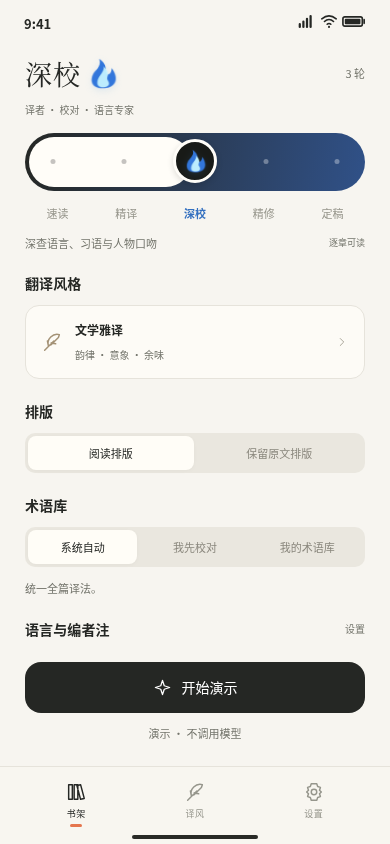
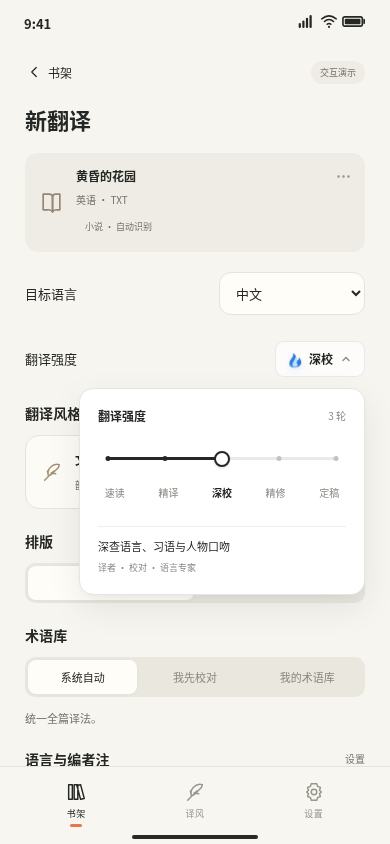
feat(ios): redesign translation strength as compact desktop-inspired popover

diff --git a/ios/preview/index.html b/ios/preview/index.html
@@ -26,11 +26,38 @@
 @media(max-width:360px){.page{padding-left:19px;padding-right:19px}.home-title{font-size:29px}.book-card{gap:14px;padding:18px 15px}.cover{width:84px;height:130px}.book-details .serif{font-size:19px}.quality-grid{gap:6px}.role{padding:5px 6px}.preference-row select{width:125px}}
 @media(prefers-reduced-motion:reduce){*,*:before,*:after{animation:none!important;transition:none!important;scroll-behavior:auto!important}}
 
-.stage{grid-template-columns:420px;justify-content:center;gap:0;max-width:none;padding:32px}.intro,.side-note{display:none}.native-label{letter-spacing:1px}.screen-title{font-family:var(--sans);font-size:22px;font-weight:550;letter-spacing:0;line-height:1.4;margin:12px 0 18px}.topbar{margin-bottom:24px}.config-section{margin-top:22px}.document-summary{margin:0 0 20px;padding:14px}.document-summary b,.book-details .serif,.doc-info b,.reader-title{overflow-wrap:anywhere}.target-row{display:flex;align-items:center;justify-content:space-between;gap:20px;font-size:13px}.target-row select{width:146px;padding:10px 12px;background:#fffdf8}.strength-header{display:flex;align-items:center;justify-content:space-between;gap:12px;margin-bottom:12px}.strength-header b{font-size:15px;font-weight:550}.strength-header span{font-size:10px;color:var(--muted)}.strength-slider{height:58px;cursor:ew-resize;touch-action:none;user-select:none;-webkit-user-select:none;border-radius:999px}.strength-slider:focus-visible{outline:3px solid var(--accent);outline-offset:4px}.strength-track{height:58px;width:100%;background:#181a17;border:1px solid #181a17;border-radius:999px;position:relative}.strength-fill{position:absolute;left:4px;top:4px;bottom:4px;background:#fffdf8;border-radius:999px;transition:width .18s ease}.strength-dot{position:absolute;top:24px;width:8px;height:8px;border-radius:50%;background:#fffdf8;transform:translateX(-50%)}.strength-dot.filled{background:#22241f}.strength-thumb{position:absolute;top:6px;width:44px;height:44px;border:3px solid #fffdf8;background:#181a17;border-radius:50%;transform:translateX(-50%);transition:left .18s ease}.strength-slider.dragging .strength-thumb,.strength-slider.dragging .strength-fill{transition:none}.sample-shortcut{display:flex;align-items:center;justify-content:center;gap:5px;width:100%;font-size:11px;color:#858070;padding:8px}.sample-shortcut svg{height:13px;width:13px}.book-card{margin-top:13px;min-height:178px}.cover-original{width:96px;height:137px;object-fit:contain;border-radius:5px;flex-shrink:0}.mini-cover{width:35px;height:48px;object-fit:contain;border-radius:3px;flex-shrink:0}.doc-icon .mini-cover{width:45px;height:56px}.reader-page>.reader-title+.cover-original{width:100%;height:240px;margin:12px 0 20px}.process-document{font-family:var(--serif);font-size:22px;font-weight:500;letter-spacing:.5px;margin:26px 0 10px}.process-art{margin:35px auto 27px}.process-page .process-message{font-size:15px;letter-spacing:0;margin-top:24px}.process-detail{max-width:250px;font-size:10px}.style-card p.style-description{display:none}.style-card p.style-example{font-size:11px;line-height:1.65;margin:9px 0 0;display:-webkit-box;-webkit-line-clamp:2;-webkit-box-orient:vertical;overflow:hidden}.style-card{padding:15px}.style-letter{font-size:25px}.sheet h2{font-family:var(--sans);font-size:20px}.sheet-notice{font-size:10px!important}.reader-title{font-size:28px}.reader-meta{margin-top:22px}.reader-author{font-size:10px}.reader-body p.empty-translation{padding:12px;font-size:11px}.complete-summary{margin:24px 0}.completed-mark{margin:38px auto 20px}.payment-option h3{font-family:var(--sans);font-size:18px}.file-drop{padding:25px 15px}.file-drop p{font-size:11px}.format-row{display:flex;gap:6px;flex-wrap:wrap;justify-content:center;margin-top:12px}.format-chip{font-size:9px;color:#8a826f;padding:4px 7px;border:1px solid #dcd5c4;border-radius:5px}
+.stage{grid-template-columns:420px;justify-content:center;gap:0;max-width:none;padding:32px}.intro,.side-note{display:none}.native-label{letter-spacing:1px}.screen-title{font-family:var(--sans);font-size:22px;font-weight:550;letter-spacing:0;line-height:1.4;margin:12px 0 18px}.topbar{margin-bottom:24px}.config-section{margin-top:22px}.document-summary{margin:0 0 20px;padding:14px}.document-summary b,.book-details .serif,.doc-info b,.reader-title{overflow-wrap:anywhere}.target-row{display:flex;align-items:center;justify-content:space-between;gap:20px;font-size:13px}.target-row select{width:146px;padding:10px 12px;background:#fffdf8}.sample-shortcut{display:flex;align-items:center;justify-content:center;gap:5px;width:100%;font-size:11px;color:#858070;padding:8px}.sample-shortcut svg{height:13px;width:13px}.book-card{margin-top:13px;min-height:178px}.cover-original{width:96px;height:137px;object-fit:contain;border-radius:5px;flex-shrink:0}.mini-cover{width:35px;height:48px;object-fit:contain;border-radius:3px;flex-shrink:0}.doc-icon .mini-cover{width:45px;height:56px}.reader-page>.reader-title+.cover-original{width:100%;height:240px;margin:12px 0 20px}.process-document{font-family:var(--serif);font-size:22px;font-weight:500;letter-spacing:.5px;margin:26px 0 10px}.process-art{margin:35px auto 27px}.process-page .process-message{font-size:15px;letter-spacing:0;margin-top:24px}.process-detail{max-width:250px;font-size:10px}.style-card p.style-description{display:none}.style-card p.style-example{font-size:11px;line-height:1.65;margin:9px 0 0;display:-webkit-box;-webkit-line-clamp:2;-webkit-box-orient:vertical;overflow:hidden}.style-card{padding:15px}.style-letter{font-size:25px}.sheet h2{font-family:var(--sans);font-size:20px}.sheet-notice{font-size:10px!important}.reader-title{font-size:28px}.reader-meta{margin-top:22px}.reader-author{font-size:10px}.reader-body p.empty-translation{padding:12px;font-size:11px}.complete-summary{margin:24px 0}.completed-mark{margin:38px auto 20px}.payment-option h3{font-family:var(--sans);font-size:18px}.file-drop{padding:25px 15px}.file-drop p{font-size:11px}.format-row{display:flex;gap:6px;flex-wrap:wrap;justify-content:center;margin-top:12px}.format-chip{font-size:9px;color:#8a826f;padding:4px 7px;border:1px solid #dcd5c4;border-radius:5px}
 @media(max-width:700px){.stage{display:block;padding:0}.page{padding-top:14px}.phone-wrap{max-width:460px}.reader-page .cover-original{width:100%;height:240px;object-fit:contain;margin:14px 0 20px}}
 
 
-.strength-eyebrow{font-size:11px;color:var(--muted);margin-bottom:9px}.strength-heading{display:flex;align-items:center;justify-content:space-between;margin-bottom:9px}.strength-name{display:flex;align-items:center;gap:8px;min-height:34px}.strength-name b{font-family:var(--serif);font-size:27px;font-weight:500;letter-spacing:1px}.strength-heading>span{font-size:11px;color:var(--muted);font-variant-numeric:tabular-nums}.strength-roles{font-size:10px;color:var(--muted);margin-bottom:16px;white-space:nowrap}.strength-labels{display:flex;justify-content:space-between;margin:0 -2px}.strength-labels button{flex:1;min-height:44px;font-size:11px;color:#96958b;transition:color .2s}.strength-labels button.selected{color:var(--ink);font-weight:650}.strength-description{display:flex;align-items:center;justify-content:space-between;gap:6px;color:var(--muted);font-size:11px;margin-top:0}.strength-description small{font-size:9px;white-space:nowrap}.strength-track{border:0;transition:background .3s;background:linear-gradient(100deg,#252724,#292d2a)}.strength-dot{width:5px;height:5px;top:26px;background:#ffffff55}.strength-dot.filled{background:#25272444}.strength-thumb{display:grid;place-items:center;box-shadow:0 2px 6px #0002;transition:left .24s cubic-bezier(.2,.85,.3,1.12),box-shadow .3s}.strength-thumb #thumb-flame{display:grid;place-items:center;color:#fffcf3}.strength-thumb #thumb-flame>svg{width:17px;height:17px}.strength-control[data-heat="deep"] .strength-track{background:linear-gradient(100deg,#252724,#305188)}.strength-control[data-heat="deep"] .strength-labels .selected{color:#3675c8}.strength-control[data-heat="publication"] .strength-track,.strength-control[data-heat="definitive"] .strength-track{background:linear-gradient(100deg,#252724,#8f4a30)}.strength-control[data-heat="publication"] .strength-labels .selected,.strength-control[data-heat="definitive"] .strength-labels .selected{color:#c56843}.strength-control[data-heat="definitive"] .strength-thumb{box-shadow:0 0 14px #ea78412b}.quality-flame{--outer:#e65c29;--core:#ffd881;--glow:#e9763326;display:inline-block;position:relative;width:28px;height:33px;vertical-align:middle}.quality-flame.blue{--outer:#3276db;--core:#c4f3ff;--glow:#479add25}.quality-flame>svg{width:100%;height:100%;fill:var(--outer);stroke:none;overflow:visible;filter:drop-shadow(0 2px 4px var(--glow));transform-origin:50% 95%;animation:flameSway 1.5s ease-in-out infinite alternate}.quality-flame .flame-core{fill:var(--core);transform-origin:50% 95%;animation:flameCore 1.1s ease-in-out infinite alternate}.quality-flame.inferno>svg{animation-duration:.95s;filter:drop-shadow(0 1px 5px #e9763344)}.quality-flame i{display:none;position:absolute;left:30%;top:48%;width:2px;height:2px;background:var(--core);border-radius:50%;animation:emberRise 1.8s linear infinite}.quality-flame.inferno i{display:block}.quality-flame i:nth-of-type(2){left:68%;animation-delay:-.6s}.quality-flame i:nth-of-type(3){left:45%;animation-delay:-1.2s}.strength-thumb .quality-flame{width:21px;height:26px}@keyframes flameSway{from{transform:scaleX(.93) scaleY(.97) rotate(-3deg)}to{transform:scaleX(1.05) scaleY(1.05) rotate(3deg)}}@keyframes flameCore{from{transform:scale(.88,.92);opacity:.86}to{transform:scale(1.03,1.04);opacity:1}}@keyframes emberRise{from{transform:translate(0,0);opacity:0}15%{opacity:.65}to{transform:translate(3px,-18px);opacity:0}}@media(prefers-reduced-motion:reduce){.quality-flame i{display:none!important}}html.motion-paused .quality-flame>svg,html.motion-paused .quality-flame .flame-core,html.motion-paused .quality-flame i{animation-play-state:paused}
+/* Compact effort popover, inspired by desktop model controls. */
+.strength-control{position:relative;display:flex;align-items:center;justify-content:space-between;min-height:44px;font-size:13px}
+.strength-trigger{display:flex;align-items:center;gap:7px;min-height:44px;padding:4px 0;position:relative}
+.strength-trigger-inner{display:flex;align-items:center;gap:7px;height:36px;padding:0 12px;background:#ffffffb3;border:1px solid #25272417;border-radius:9px;font-size:12px;font-weight:550}
+.strength-trigger .quality-flame{width:14px;height:18px}#quality-flame:empty{display:none}
+.strength-caret{width:12px;height:12px;stroke-width:1.8;color:#888a84;transition:transform .16s}
+.strength-trigger[aria-expanded="true"] .strength-caret{transform:rotate(180deg)}
+.strength-panel{position:absolute;right:0;top:calc(100% + 7px);width:min(286px,100%);padding:18px;background:#fff;border:1px solid #e5e5e3;border-radius:14px;box-shadow:0 12px 35px #00000014,0 2px 6px #00000008;z-index:30;animation:strengthEnter .16s ease-out;transform-origin:top right}
+.strength-panel[hidden]{display:none}.strength-panel.above{top:auto;bottom:calc(100% + 7px);transform-origin:bottom right}
+.strength-panel-header{display:flex;align-items:center;justify-content:space-between;font-size:12px;margin-bottom:13px;font-weight:600}
+.strength-panel-header span{font-size:10px;color:#888a84;font-weight:400;font-variant-numeric:tabular-nums}
+.strength-slider{height:44px;position:relative;cursor:ew-resize;touch-action:none;user-select:none;-webkit-user-select:none;border-radius:6px}
+.strength-slider:focus-visible{outline:2px solid #767875;outline-offset:3px}
+.strength-track{position:absolute;inset:0 10px}
+.strength-track:before{content:"";position:absolute;top:20.5px;height:3px;width:100%;background:#e9e9e7;border-radius:2px}
+.strength-fill{position:absolute;left:0;top:20.5px;height:3px;background:#252724;border-radius:2px;transition:width .2s cubic-bezier(.2,.85,.3,1)}
+.strength-dot{position:absolute;top:19.5px;transform:translateX(-50%);width:5px;height:5px;border-radius:50%;background:#c2c2bf}
+.strength-dot.filled{background:#252724}
+.strength-thumb{position:absolute;top:14px;transform:translateX(-50%);width:16px;height:16px;border:2px solid #252724;background:#fff;border-radius:50%;box-shadow:0 1px 3px #0002;transition:left .2s cubic-bezier(.2,.85,.3,1.1)}
+.strength-slider.dragging .strength-thumb,.strength-slider.dragging .strength-fill{transition:none}
+.strength-labels{display:flex;gap:0;margin:-10px -10px 0}
+.strength-labels button{flex:1;min-height:44px;font-size:10px;color:#888a84;padding:0;position:relative}
+.strength-labels button.selected{font-weight:650;color:#252724}
+.strength-panel-footer{border-top:1px solid #eeeeec;margin-top:11px;padding-top:11px}
+.strength-panel-detail{font-size:11px;line-height:1.6}
+.strength-roles{font-size:9px;color:#888a84;margin-top:6px;line-height:1.6}
+@keyframes strengthEnter{from{opacity:0}to{opacity:1}}
+.quality-flame{--outer:#e65c29;--core:#ffd881;--glow:#e9763326;display:inline-block;position:relative;width:28px;height:33px;vertical-align:middle}.quality-flame.blue{--outer:#3276db;--core:#c4f3ff;--glow:#479add25}.quality-flame>svg{width:100%;height:100%;fill:var(--outer);stroke:none;overflow:visible;filter:drop-shadow(0 2px 4px var(--glow));transform-origin:50% 95%;animation:flameSway 1.5s ease-in-out infinite alternate}.quality-flame .flame-core{fill:var(--core);transform-origin:50% 95%;animation:flameCore 1.1s ease-in-out infinite alternate}.quality-flame.inferno>svg{animation-duration:.95s;filter:drop-shadow(0 1px 5px #e9763344)}.quality-flame i{display:none;position:absolute;left:30%;top:48%;width:2px;height:2px;background:var(--core);border-radius:50%;animation:emberRise 1.8s linear infinite}.quality-flame.inferno i{display:block}.quality-flame i:nth-of-type(2){left:68%;animation-delay:-.6s}.quality-flame i:nth-of-type(3){left:45%;animation-delay:-1.2s}@keyframes flameSway{from{transform:scaleX(.93) scaleY(.97) rotate(-3deg)}to{transform:scaleX(1.05) scaleY(1.05) rotate(3deg)}}@keyframes flameCore{from{transform:scale(.88,.92);opacity:.86}to{transform:scale(1.03,1.04);opacity:1}}@keyframes emberRise{from{transform:translate(0,0);opacity:0}15%{opacity:.65}to{transform:translate(3px,-18px);opacity:0}}@media(prefers-reduced-motion:reduce){.quality-flame i{display:none!important}}html.motion-paused .quality-flame>svg,html.motion-paused .quality-flame .flame-core,html.motion-paused .quality-flame i{animation-play-state:paused}
 </style>
 </head>
 <body>
@@ -490,8 +517,10 @@ function render(){const screens={home:homeHTML,configure:configHTML,styles:style
 function homeHTML(){const featured=docs.findLast(d=>d.coverDataURL)||docs[0],recent=docs.filter(d=>d.id!==featured.id);return '<header class="topbar"><div class="app-brand">译间<small>BOOKLLM</small></div><button class="icon-button" data-action="import" aria-label="导入文稿">'+icon('plus')+'</button></header><div class="row spread"><h1 class="section-title">继续阅读</h1><span class="small muted" style="font-size:10px">'+docs.length+' 份文稿</span></div><div class="book-card">'+(docCover(featured)||'<div class="cover" aria-hidden="true"><span class="cover-label">BOOKLLM</span><div class="cover-title">黄昏的<br>花园</div><div class="cover-rule"></div><span class="cover-en">THE GARDEN<br>AT DUSK</span></div>')+'<div class="book-details"><span class="pill '+(featured.sample?'green':'gray')+'">'+(featured.sample?'示例译本':'已导入')+'</span><h2 class="serif">'+esc(featured.title)+'</h2><p class="small muted" style="font-size:10px;margin:0">'+detectSourceLanguage(featured.source)+' · '+featured.format+'</p><button class="read-button" data-read="'+esc(featured.id)+'">继续阅读 '+icon('arrow')+'</button></div></div><div class="row spread section-row"><h2 class="section-title">书架</h2></div>'+recent.map(d=>'<button class="document-row" data-read="'+esc(d.id)+'"><span class="doc-icon">'+(docCover(d,true)||icon('doc'))+'</span><span class="doc-info"><b>'+esc(d.title)+'</b><small>'+esc(d.format)+' · '+detectSourceLanguage(d.source)+'</small></span><span class="pill '+(d.sample?'green':'gray')+'">'+(d.sample?'示例':'原文')+'</span></button>').join('')+'<button class="button new-translation" data-action="import">'+icon('plus')+'导入文稿</button><button class="sample-shortcut" data-action="sample-config">体验示例翻译 '+icon('arrow')+'</button><div class="deepseek-foot">DeepSeek · 交互演示</div>'}
 
 function flameHTML(q){if(qualityKeys.indexOf(q)<2)return '';return '<span class="quality-flame '+(q==='deep'?'blue':q==='definitive'?'inferno':'amber')+'" aria-hidden="true"><svg viewBox="0 0 30 36"><path class="flame-outer" d="M15 34C0 34 1 23 5 17C9 13 14 8 11 2C22 9 16 15 20 19C24 19 25 15 25 12C35 26 27 34 15 34Z"/><path class="flame-core" d="M15 33C6 33 8 25 12 20C16 15 17 12 16 10C26 20 17 21 21 26C24 31 20 33 15 33Z"/></svg><i></i><i></i><i></i></span>'}
-function qualityHTML(){const idx=qualityKeys.indexOf(state.quality),ratio=idx/4,q=qualityInfo[state.quality];const pos=i=>'calc('+(i/4*100)+'% + '+(28-56*i/4)+'px)';return '<div class="strength-control" data-heat="'+state.quality+'"><div class="strength-eyebrow">翻译强度</div><div class="strength-heading"><div class="strength-name"><b id="quality-heading">'+q.name+'</b><span id="quality-flame">'+flameHTML(state.quality)+'</span></div><span id="quality-rounds">'+stages().length+' 轮</span></div><div id="quality-roles" class="strength-roles">'+stages().map(s=>roleNames[s]).join(' · ')+'</div><div id="quality-slider" class="strength-slider" role="slider" tabindex="0" aria-label="翻译强度" aria-valuemin="0" aria-valuemax="4" aria-valuenow="'+idx+'" aria-valuetext="'+q.name+'，'+stages().map(s=>roleNames[s]).join('、')+'"><div class="strength-track"><span class="strength-fill" style="width:calc('+ratio*100+'% + '+(20-56*ratio)+'px)"></span>'+qualityKeys.map((_,i)=>'<i class="strength-dot '+(i<idx?'filled':'')+'" style="left:'+pos(i)+'"></i>').join('')+'<span class="strength-thumb" style="left:'+pos(idx)+'"><span id="thumb-flame">'+(flameHTML(state.quality)||icon(state.quality==='fast'?'spark':'feather'))+'</span></span></div></div><div class="strength-labels">'+qualityKeys.map((key,i)=>'<button data-quality-stop="'+i+'" class="'+(idx===i?'selected':'')+'" aria-pressed="'+(idx===i)+'">'+qualityInfo[key].name+'</button>').join('')+'</div><div class="strength-description"><span id="quality-detail">'+q.description+'</span><small id="quality-reading">'+(idx?'逐章可读':'')+'</small></div></div>'}
-function updateQualitySlider(index,visualRatio=null){index=Math.max(0,Math.min(4,index));const previous=state.quality;state.quality=qualityKeys[index];state.extraLanguage=false;const slider=$('#quality-slider');if(!slider)return;const ratio=visualRatio??index/4;slider.setAttribute('aria-valuenow',String(index));slider.setAttribute('aria-valuetext',qualityInfo[state.quality].name+'，'+stages().map(s=>roleNames[s]).join('、'));$('.strength-fill',slider).style.width='calc('+ratio*100+'% + '+(20-56*ratio)+'px)';$('.strength-thumb',slider).style.left='calc('+ratio*100+'% + '+(28-56*ratio)+'px)';slider.querySelectorAll('.strength-dot').forEach((dot,i)=>dot.classList.toggle('filled',i<index));$('#quality-heading').textContent=qualityInfo[state.quality].name;$('#quality-roles').textContent=stages().map(s=>roleNames[s]).join(' · ');$('#quality-rounds').textContent=stages().length+' 轮';$('#quality-detail').textContent=qualityInfo[state.quality].description;$('#quality-reading').textContent=index?'逐章可读':'';if(previous!==state.quality){$('#quality-flame').innerHTML=flameHTML(state.quality);$('#thumb-flame').innerHTML=flameHTML(state.quality)||icon(state.quality==='fast'?'spark':'feather');}$('.strength-control').dataset.heat=state.quality;document.querySelectorAll('[data-quality-stop]').forEach((b,i)=>{b.classList.toggle('selected',i===index);b.setAttribute('aria-pressed',String(i===index));});}
+function qualityHTML(){const idx=qualityKeys.indexOf(state.quality),q=qualityInfo[state.quality];return '<div class="strength-control"><span>翻译强度</span><button class="strength-trigger" id="strength-trigger" aria-expanded="false" aria-controls="strength-panel" aria-label="翻译强度，'+q.name+'"><span class="strength-trigger-inner"><span id="quality-flame">'+flameHTML(state.quality)+'</span><span id="quality-heading">'+q.name+'</span><svg class="strength-caret" viewBox="0 0 16 16" aria-hidden="true"><path d="m4 6 4 4 4-4"/></svg></span></button><div class="strength-panel" id="strength-panel" hidden><div class="strength-panel-header">翻译强度<span id="quality-rounds">'+stages().length+' 轮</span></div><div id="quality-slider" class="strength-slider" role="slider" tabindex="0" aria-label="翻译强度" aria-valuemin="0" aria-valuemax="4" aria-valuenow="'+idx+'" aria-valuetext="'+q.name+'，'+stages().map(s=>roleNames[s]).join('、')+'"><div class="strength-track"><span class="strength-fill" style="width:'+idx/4*100+'%"></span>'+qualityKeys.map((_,i)=>'<i class="strength-dot '+(i<=idx?'filled':'')+'" style="left:'+i/4*100+'%"></i>').join('')+'<span class="strength-thumb" style="left:'+idx/4*100+'%"></span></div></div><div class="strength-labels">'+qualityKeys.map((key,i)=>'<button data-quality-stop="'+i+'" class="'+(idx===i?'selected':'')+'" aria-pressed="'+(idx===i)+'">'+qualityInfo[key].name+'</button>').join('')+'</div><div class="strength-panel-footer"><div id="quality-detail" class="strength-panel-detail">'+q.description+'</div><div id="quality-roles" class="strength-roles">'+stages().map(s=>roleNames[s]).join(' · ')+'</div></div></div></div>'}
+function updateQualitySlider(index,visualRatio=null){index=Math.max(0,Math.min(4,index));const previous=state.quality;state.quality=qualityKeys[index];state.extraLanguage=false;const slider=$('#quality-slider');if(!slider)return;const ratio=visualRatio??index/4;slider.setAttribute('aria-valuenow',String(index));slider.setAttribute('aria-valuetext',qualityInfo[state.quality].name+'，'+stages().map(s=>roleNames[s]).join('、'));$('.strength-fill',slider).style.width=ratio*100+'%';$('.strength-thumb',slider).style.left=ratio*100+'%';slider.querySelectorAll('.strength-dot').forEach((dot,i)=>dot.classList.toggle('filled',i<=index));$('#quality-heading').textContent=qualityInfo[state.quality].name;$('#strength-trigger').setAttribute('aria-label','翻译强度，'+qualityInfo[state.quality].name);$('#quality-roles').textContent=stages().map(s=>roleNames[s]).join(' · ');$('#quality-rounds').textContent=stages().length+' 轮';$('#quality-detail').textContent=qualityInfo[state.quality].description;if(previous!==state.quality)$('#quality-flame').innerHTML=flameHTML(state.quality);document.querySelectorAll('[data-quality-stop]').forEach((b,i)=>{b.classList.toggle('selected',i===index);b.setAttribute('aria-pressed',String(i===index));});}
+function setStrengthOpen(open,restoreFocus=false){const panel=$('#strength-panel'),trigger=$('#strength-trigger');if(!panel)return;panel.hidden=!open;trigger.setAttribute('aria-expanded',String(open));if(open){panel.classList.remove('above');const viewBox=$('#view').getBoundingClientRect();if(panel.getBoundingClientRect().bottom>viewBox.bottom-8)panel.classList.add('above');$('#quality-slider').focus({preventScroll:true});}else if(restoreFocus)trigger.focus({preventScroll:true});}
+
 function glossaryHTML(){let mode=state.glossaryMode;return '<div class="segmented" role="group" aria-label="术语库模式">'+[['automatic','系统自动'],['review','我先校对'],['custom','我的术语库']].map(([v,l])=>'<button data-glossary="'+v+'" class="'+(mode===v?'active':'')+'" aria-pressed="'+(mode===v)+'">'+l+'</button>').join('')+'</div><div class="glossary-box">'+(mode==='automatic'?'<p class="field-caption">统一全篇译法。</p>':'<div class="row spread glossary-head"><span class="small muted" style="font-size:10px">'+(mode==='review'?'确认译法':'固定译法')+'</span><button class="text-button" data-action="add-term" style="font-size:10px">+ 添加</button></div>'+state.terms.map((t,i)=>'<div class="term-row"><input aria-label="术语 '+(i+1)+' 原文" data-term="'+i+'" data-part="source" value="'+esc(t.source)+'" placeholder="原词"><span>→</span><input aria-label="术语 '+(i+1)+' 译文" data-term="'+i+'" data-part="target" value="'+esc(t.target)+'" placeholder="固定译法"><button class="remove-term" data-remove-term="'+i+'" aria-label="删除术语 '+(i+1)+'">×</button></div>').join('')+(state.terms.length?'':'<p class="field-caption">可添加术语。</p>')+(mode==='review'?'<button class="check-row" data-action="confirm-glossary" aria-pressed="'+state.reviewed+'"><span class="checkbox '+(state.reviewed?'checked':'')+'">'+(state.reviewed?icon('check'):'')+'</span><span>我已确认术语，按这些译法翻译</span></button>':'<p class="field-caption">本次演示中保留。</p>'))+'</div>'}
 function preferenceHTML(){return '<div class="preferences-panel"><div class="preference-row"><div class="title">其他外语<small>外语片段</small></div><select aria-label="外语处理方式" data-pref="foreign">'+[['bilingual','原文 + 译文'],['translate','一并翻译'],['preserve','保留原文']].map(([v,l])=>'<option value="'+v+'" '+(state.foreign===v?'selected':'')+'>'+l+'</option>').join('')+'</select></div><div class="preference-row"><div class="title">编者注<small>首次出现时解释</small></div><select aria-label="编者注类型" data-pref="notes">'+[['none','不添加'],['terms','词语解释'],['cultural','词语与文化背景']].map(([v,l])=>'<option value="'+v+'" '+(state.notes===v?'selected':'')+'>'+l+'</option>').join('')+'</select></div><div class="preference-row"><div class="title">注释保持克制<small>'+ (state.sparse?'每个分块最多 1 条必要说明':'每个分块最多 3 条必要说明') +'</small></div><button class="switch '+(state.sparse?'on':'')+'" data-toggle="sparse" role="switch" aria-checked="'+state.sparse+'" aria-label="注释保持克制"></button></div></div>'}
 function documentOptionsHTML(){return '<section class="config-section"><h2 class="section-title" style="margin-bottom:12px">排版</h2><div class="segmented" role="group" aria-label="排版模式">'+[['reading','阅读排版'],['preserve','保留原文排版']].map(([v,l])=>'<button data-layout="'+v+'" class="'+(state.layout===v?'active':'')+'" aria-pressed="'+(state.layout===v)+'">'+l+'</button>').join('')+'</div></section>'}
@@ -544,8 +573,10 @@ document.addEventListener('keydown',event=>{if(!state.modal)return;if(event.key=
 function introHTML(){const p=state.introPage;return '<div style="padding:24px 0 12px"><h2 class="serif" style="font-size:28px">'+['导入，开始读。','选一种翻译强度。','选一种使用方式。'][p]+'</h2><p class="small muted" style="font-size:14px;line-height:2">'+['EPUB、PDF、DOCX、TXT、Markdown 与图片。<br>扫描页本机 OCR，可先核对，保留已有封面。','速读 → 精译 → 深校 → 精修 → 定稿。<br>逐级加入校对、语言专家、主编与终审。<br>高强度逐章定稿，耗时与用量也会增加。',state.mode==='payg'?'购买点数，默认 DeepSeek，按实际用量结算。':'一次解锁自己的 API，服务商计费。'][p]+'</p>'+(p===2?modeHTML():'')+'<button class="button" data-action="intro-next">'+(p===2?'进入书架':'继续')+'</button></div>'}
 document.addEventListener('click',event=>{const el=event.target.closest('[data-mode],[data-action]');if(!el)return;if(el.dataset.mode){state.mode=el.dataset.mode;render();return}switch(el.dataset.action){case'intro':state.introPage=0;openModal('intro');break;case'intro-next':if(state.introPage<2){state.introPage++;renderModal()}else{closeModal();navigate('home')}break;case'work-lookup':openModal('work-lookup');break;case'work-open':if($('#work-id').value.trim().toUpperCase()==='GARDEN')openModal('work-detail');else toast('演示中可输入 GARDEN');break;case'work-buy':if(!state.demoPurchased){state.demoPoints-=10;state.demoPurchased=true}closeModal();state.selected='garden';state.readerMode='translated';navigate('reader');toast('示例已加入书架 · 再次打开不会重复扣点');break;case'publish':openModal('publish');break;case'publish-demo':if(!$('#work-rights').checked){toast('请先确认分享权利');break}const price=Number($('#work-price').value);if(!Number.isInteger(price)||price<1||price>100000){toast('请输入 1–100000 点');break}closeModal();toast('示例 ID：GARDEN · '+price+' 点 · 未上传');break;}});
 let sliderPointer=null;
-function sliderRatio(event,slider){const rect=slider.getBoundingClientRect();return Math.max(0,Math.min(1,(event.clientX-rect.left-28)/(rect.width-56)))}
-document.addEventListener('click',event=>{const b=event.target.closest('[data-quality-stop]');if(b)updateQualitySlider(Number(b.dataset.qualityStop));});
+function sliderRatio(event,slider){const rect=slider.getBoundingClientRect();return Math.max(0,Math.min(1,(event.clientX-rect.left-10)/(rect.width-20)))}
+document.addEventListener('click',event=>{const trigger=event.target.closest('#strength-trigger');if(trigger){setStrengthOpen(trigger.getAttribute('aria-expanded')!=='true');return;}const b=event.target.closest('[data-quality-stop]');if(b){updateQualitySlider(Number(b.dataset.qualityStop));return;}if(!event.target.closest('.strength-control'))setStrengthOpen(false);});
+document.addEventListener('keydown',event=>{if(event.key==='Escape'&&$('#strength-panel')&&!$('#strength-panel').hidden){event.preventDefault();setStrengthOpen(false,true);}});
+document.addEventListener('focusin',event=>{if(!event.target.closest('.strength-control'))setStrengthOpen(false);});
 document.addEventListener('pointerdown',event=>{const slider=event.target.closest('#quality-slider');if(!slider)return;event.preventDefault();slider.focus();sliderPointer=event.pointerId;slider.setPointerCapture(event.pointerId);slider.classList.add('dragging');const ratio=sliderRatio(event,slider);updateQualitySlider(Math.round(ratio*4));});
 document.addEventListener('pointermove',event=>{if(sliderPointer!==event.pointerId)return;const slider=$('#quality-slider');if(!slider)return;const ratio=sliderRatio(event,slider);updateQualitySlider(Math.round(ratio*4),ratio);});
 function endSlider(event){if(sliderPointer!==event.pointerId)return;const slider=$('#quality-slider');sliderPointer=null;if(slider){slider.classList.remove('dragging');updateQualitySlider(qualityKeys.indexOf(state.quality));}}

diff --git a/ios/App/QualityControl.swift b/ios/App/QualityControl.swift
@@ -2,81 +2,112 @@ import SwiftUI
 import UIKit
 import TranslationCore
 
-@MainActor struct QualitySlider: View {
+@MainActor struct TranslationStrengthPicker: View {
     @Binding var selection: Quality
     @Environment(\.accessibilityReduceMotion) private var reduceMotion
+    @State private var isPresented = false
     @State private var dragProgress: Double?
-    private let thumb: CGFloat = 42
-    private let inset: CGFloat = 7
-    private var levels: [Quality] { Quality.allCases }
+    private let levels = Quality.allCases
     private var index: Int { levels.firstIndex(of: selection) ?? 0 }
     private var progress: Double { dragProgress ?? Double(index) / Double(levels.count - 1) }
-    private var tint: Color { selection == .deep ? Color(red: 0.22, green: 0.47, blue: 0.89) : index >= 3 ? Ink.orange : Ink.text }
 
     var body: some View {
-        VStack(alignment: .leading, spacing: 12) {
-            HStack(alignment: .center) {
-                VStack(alignment: .leading, spacing: 6) {
-                    Text("翻译强度").font(.system(size: 12)).foregroundStyle(Ink.muted)
-                    HStack(spacing: 8) {
-                        Text(selection.title).font(.system(size: 25, weight: .medium, design: .serif))
-                        if index >= 2 { QualityFlame(quality: selection).frame(width: 27, height: 32).transition(.opacity.combined(with: .scale(scale: 0.85))) }
-                    }
+        HStack {
+            Text("翻译强度").font(.system(size: 14))
+            Spacer()
+            Button { isPresented.toggle() } label: {
+                HStack(spacing: 7) {
+                    if index >= 2 { QualityFlame(quality: selection).frame(width: 14, height: 18) }
+                    Text(selection.title).font(.system(size: 13, weight: .medium))
+                    Image(systemName: "chevron.down").font(.system(size: 9, weight: .semibold)).foregroundStyle(Ink.muted)
                 }
+                .padding(.horizontal, 12).frame(height: 36)
+                .background(.white.opacity(0.7), in: RoundedRectangle(cornerRadius: 9))
+                .overlay { RoundedRectangle(cornerRadius: 9).stroke(Ink.text.opacity(0.09), lineWidth: 1) }
+                .frame(minHeight: 44).contentShape(Rectangle())
+            }.buttonStyle(.plain)
+                .accessibilityLabel("翻译强度，\(selection.title)")
+                .accessibilityHint("打开强度选择器")
+                .popover(isPresented: $isPresented, arrowEdge: .top) {
+                    optionsPanel
+                        .presentationCompactAdaptation(.popover)
+                        .presentationBackground(.white)
+                }
+        }.foregroundStyle(Ink.text)
+    }
+
+    private var optionsPanel: some View {
+        VStack(alignment: .leading, spacing: 0) {
+            HStack {
+                Text("翻译强度").font(.system(size: 13, weight: .semibold))
                 Spacer()
-                Text("\(selection.stages.count) 轮").font(.system(size: 12, design: .monospaced)).foregroundStyle(Ink.muted)
-            }
-            Text(selection.stages.map(\.title).joined(separator: " · ")).font(.system(size: 11)).foregroundStyle(Ink.muted).lineLimit(1).minimumScaleFactor(0.85)
+                Text("\(selection.stages.count) 轮").font(.system(size: 11)).foregroundStyle(Ink.muted)
+            }.padding(.bottom, 13)
             rail
             HStack(spacing: 0) {
                 ForEach(levels) { level in
                     Button { snap(level) } label: {
                         Text(level.title).font(.system(size: 11, weight: level == selection ? .semibold : .regular))
-                            .foregroundStyle(level == selection ? tint : Ink.muted).frame(maxWidth: .infinity).frame(height: 44)
-                            .contentShape(Rectangle())
-                    }.buttonStyle(.plain).accessibilityLabel("\(level.title)，\(level.stages.count) 轮处理").accessibilityAddTraits(level == selection ? .isSelected : [])
+                            .foregroundStyle(level == selection ? Ink.text : Ink.muted)
+                            .frame(maxWidth: .infinity).frame(height: 44).contentShape(Rectangle())
+                    }.buttonStyle(.plain)
+                        .accessibilityLabel("\(level.title)，\(level.stages.count) 轮处理")
+                        .accessibilityAddTraits(level == selection ? .isSelected : [])
                 }
-            }.padding(.top, -8)
-            HStack(spacing: 8) {
-                Text(selection.detail).font(.system(size: 12)).foregroundStyle(Ink.muted)
-                Spacer(minLength: 0)
-                if selection != .fast { Text("逐章可读").font(.system(size: 10)).foregroundStyle(Ink.muted) }
-            }
-        }.animation(reduceMotion ? nil : .easeInOut(duration: 0.22), value: selection)
+            }.padding(.horizontal, -10).padding(.top, -10)
+            Divider().overlay(Ink.text.opacity(0.04)).padding(.vertical, 11)
+            Text(selection.detail).font(.system(size: 12)).fixedSize(horizontal: false, vertical: true)
+            Text(selection.stages.map(\.title).joined(separator: " · "))
+                .font(.system(size: 10)).foregroundStyle(Ink.muted)
+                .fixedSize(horizontal: false, vertical: true).padding(.top, 6)
+        }.padding(18).frame(width: 286)
+            .animation(reduceMotion ? nil : .easeInOut(duration: 0.16), value: selection)
+            .onDisappear { dragProgress = nil }
     }
+
     private var rail: some View {
         GeometryReader { geometry in
-            let travel = max(1, geometry.size.width - thumb - inset * 2)
+            let travel = max(1, geometry.size.width - 20)
             let offset = travel * CGFloat(progress)
             ZStack(alignment: .leading) {
-                Capsule().fill(LinearGradient(colors: [Ink.text, tint.opacity(index >= 2 ? 0.8 : 1)], startPoint: .leading, endPoint: .trailing))
-                Capsule().stroke(.black.opacity(0.08), lineWidth: 1)
-                Capsule().fill(.white).frame(width: thumb + offset, height: thumb).padding(.leading, inset)
-                ForEach(levels.indices, id: \.self) { dot in
-                    Circle().fill(dot < index ? Ink.text.opacity(0.22) : .white.opacity(0.34)).frame(width: 5, height: 5)
-                        .position(x: inset + thumb / 2 + travel * CGFloat(dot) / CGFloat(levels.count - 1), y: 28)
+                Capsule().fill(Ink.text.opacity(0.10)).frame(height: 3).padding(.horizontal, 10)
+                Capsule().fill(Ink.text).frame(width: offset, height: 3).padding(.leading, 10)
+                ForEach(levels.indices, id: \.self) { tick in
+                    Circle().fill(tick <= index ? Ink.text : Color(red: 0.76, green: 0.76, blue: 0.75))
+                        .frame(width: 5, height: 5)
+                        .position(x: 10 + travel * CGFloat(tick) / CGFloat(levels.count - 1), y: 22)
                 }
-                ZStack {
-                    Circle().fill(Ink.text)
-                    if index >= 2 { QualityFlame(quality: selection).frame(width: 23, height: 27) }
-                    else { Image(systemName: selection == .fast ? "bolt.fill" : "sparkle").font(.system(size: 16, weight: .medium)).foregroundStyle(.white.opacity(0.9)) }
-                }.frame(width: thumb, height: thumb).overlay { Circle().stroke(.white, lineWidth: 2.5) }
-                    .shadow(color: tint.opacity(index >= 2 ? 0.22 : 0.08), radius: 7, x: 0, y: 1).padding(.leading, inset + offset)
-            }.contentShape(Rectangle())
+                Circle().fill(.white).frame(width: 16, height: 16)
+                    .overlay { Circle().stroke(Ink.text, lineWidth: 2) }
+                    .shadow(color: .black.opacity(0.12), radius: 2, y: 1)
+                    .padding(.leading, 2 + offset)
+            }.frame(height: 44).contentShape(Rectangle())
                 .gesture(DragGesture(minimumDistance: 0).onChanged { value in
-                    let ratio = min(1, max(0, Double((value.location.x - inset - thumb / 2) / travel)))
-                    dragProgress = ratio; choose(Int((ratio * Double(levels.count - 1)).rounded()))
-                }.onEnded { _ in withAnimation(reduceMotion ? nil : .spring(response: 0.3, dampingFraction: 0.82)) { dragProgress = nil } })
-        }.frame(height: 56)
-            .animation(reduceMotion || dragProgress != nil ? nil : .spring(response: 0.3, dampingFraction: 0.82), value: selection)
+                    let ratio = min(1, max(0, Double((value.location.x - 10) / travel)))
+                    dragProgress = ratio
+                    choose(Int((ratio * Double(levels.count - 1)).rounded()))
+                }.onEnded { _ in
+                    withAnimation(reduceMotion ? nil : .spring(response: 0.25, dampingFraction: 0.86)) { dragProgress = nil }
+                })
+        }.frame(height: 44)
+            .animation(reduceMotion || dragProgress != nil ? nil : .spring(response: 0.25, dampingFraction: 0.86), value: selection)
             .accessibilityElement(children: .ignore).accessibilityLabel("翻译强度")
             .accessibilityValue("\(selection.title)，\(selection.stages.map(\.title).joined(separator: "、"))")
             .accessibilityHint("强度越高，审校轮次、耗时与用量越多。")
             .accessibilityAdjustableAction { direction in
-                switch direction { case .increment: snap(levels[min(levels.count - 1, index + 1)]); case .decrement: snap(levels[max(0, index - 1)]); @unknown default: break }
+                switch direction {
+                case .increment: snap(levels[min(levels.count - 1, index + 1)])
+                case .decrement: snap(levels[max(0, index - 1)])
+                @unknown default: break
+                }
             }
     }
-    private func snap(_ level: Quality) { withAnimation(reduceMotion ? nil : .spring(response: 0.3, dampingFraction: 0.82)) { dragProgress = nil; choose(levels.firstIndex(of: level) ?? 0) } }
+
+    private func snap(_ level: Quality) {
+        withAnimation(reduceMotion ? nil : .spring(response: 0.25, dampingFraction: 0.86)) {
+            dragProgress = nil; choose(levels.firstIndex(of: level) ?? 0)
+        }
+    }
     private func choose(_ value: Int) {
         guard levels.indices.contains(value), levels[value] != selection else { return }
         selection = levels[value]; UISelectionFeedbackGenerator().selectionChanged()
@@ -124,4 +155,4 @@ struct QualityFlame: View {
         p.closeSubpath(); return p
     }
 }
-#Preview { QualitySlider(selection: .constant(.definitive)).padding(28).background(Ink.paper) }
+#Preview { TranslationStrengthPicker(selection: .constant(.definitive)).padding(28).background(Ink.paper) }

diff --git a/ios/App/JobView.swift b/ios/App/JobView.swift
@@ -89,7 +89,7 @@ struct JobView: View {
                 }
             }
             HStack { Text("翻译为").font(.system(size: 14)); Spacer(); Picker("目标语言", selection: binding(\.options.targetLanguage)) { ForEach(TranslationLanguage.allCases) { language in Text(language.title).tag(language.targetName) }; if !TranslationLanguage.allCases.contains(where: { $0.targetName == job.options.targetLanguage }) { Text(job.options.targetLanguage).tag(job.options.targetLanguage) } }.tint(Ink.text) }
-            QualitySlider(selection: Binding(get: { job.options.effectiveQuality }, set: { value in
+            TranslationStrengthPicker(selection: Binding(get: { job.options.effectiveQuality }, set: { value in
                 studio.update(id) { $0.options.quality = value; $0.options.preferences.extraLanguageReview = false }
             }))
             PaperCard {

diff --git a/ios/README_ZH.md b/ios/README_ZH.md
@@ -7,7 +7,7 @@
 - 新手介绍选择「按量付费」或「买断自带 API」；买断界面隐藏翻译点数与点数包，只显示自己的 API。原语言自动检测，支持中文、英语、日语、韩语、法语、德语、西班牙语、俄语互译，目标默认中文。
 - 书库导入 TXT、Markdown、文字/扫描/混合 PDF、EPUB、DOCX、JPEG/PNG/HEIC/单页 TIFF；粘贴文本也可建立翻译任务。
 - 小说使用单独的按章审校流程：初译、校对、语言专家、主编逐轮处理；相邻原文与上一轮译稿用于统一人物口吻、视角、时态与衔接，上一章已完成译稿的结尾用于章间接续参考，不新增模型调用。中文章回、数字/罗马数字章号及英文 one–ninety-nine 章号使用一致的识别规则。
-- 五档强度：**速读**（译者）、**精译**（加校对）、**深校**（加语言专家）、**精修**（加主编）、**定稿**（加独立终审）。每档增加一轮真实处理；最后的终审核验事实、术语、数字与完整性，保留已定文风。胶囊控件支持连续滑动、五个停靠点、点击名称、回弹和触感反馈。深校蓝焰、精修橙焰、定稿饱满橙焰与少量火星；减少动态效果或应用不活跃时停止动画。旧 `publication` 保留四轮检查点语义，旧「精译 + 语言专家」显示为深校，避免续译重复扣点。
+- 五档强度：**速读**（译者）、**精译**（加校对）、**深校**（加语言专家）、**精修**（加主编）、**定稿**（加独立终审）。每档增加一轮真实处理；最后的终审核验事实、术语、数字与完整性，保留已定文风。桌面 Codex 风格的紧凑入口只显示当前档位，点击后弹出白色浮层；细刻度滑条支持连续滑动、五个停靠点、点击名称、回弹、触感反馈和无障碍调节。深校蓝焰、精修橙焰、定稿饱满橙焰与少量火星；减少动态效果或应用不活跃时停止动画。旧 `publication` 保留四轮检查点语义，旧「精译 + 语言专家」显示为深校，避免续译重复扣点。
 - 八种预设文风与可编辑的自定义风格：忠实清晰、文学雅译、现代叙事、古典韵味、专业文档、徐志摩·诗意、相声·抖包袱、水浒·江湖叙事。预设改变语言气质，不拼接现成作品段落。
 - 术语库支持系统整理、先由用户校对后开始翻译，或使用自己的术语库；全书采用同一份术语约束。
 - 混合外语可一并翻译、保留原文，或显示原文加译文；可开关词语解释与文化背景编者注，并控制注释密度。语言专家检查外语、语域、习语和注释。
